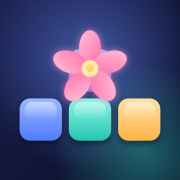
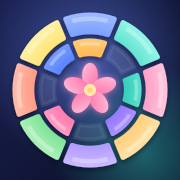
Bloom Blocks: describe the ring board of version 1.1.0
The product and support pages, screenshots, icon and cards now show the
redesigned game: curved petals on five rings, ring twisting and the
growing flower.

diff --git a/BloomBlocks/index.html b/BloomBlocks/index.html
@@ -3,21 +3,21 @@
 <head>
 <meta charset="UTF-8">
 <meta name="viewport" content="width=device-width, initial-scale=1.0, viewport-fit=cover">
-<title>Bloom Blocks: a calm, beautiful block puzzle</title>
-<meta name="description" content="Drag pieces onto the board, clear lines, chain combos and bloom the board. A fair, relaxing block puzzle for iPhone, iPad and Android with a new Daily Bloom every day.">
+<title>Bloom Blocks: a calm puzzle that grows in circles</title>
+<meta name="description" content="Place curved petals on a flower of five rings, twist the rings to line them up, and grow your bloom. A fair, relaxing puzzle for iPhone, iPad and Android with a new Daily Bloom every day.">
 <meta name="robots" content="index, follow">
 <link rel="canonical" href="https://playpalapps.github.io/BloomBlocks/">
 <meta property="og:type" content="website">
 <meta property="og:site_name" content="Playpal Apps">
 <meta property="og:url" content="https://playpalapps.github.io/BloomBlocks/">
-<meta property="og:title" content="Bloom Blocks: a calm, beautiful block puzzle">
-<meta property="og:description" content="Drag pieces onto the board, clear lines, chain combos and bloom the board. A fair, relaxing block puzzle for iPhone, iPad and Android with a new Daily Bloom every day.">
+<meta property="og:title" content="Bloom Blocks: a calm puzzle that grows in circles">
+<meta property="og:description" content="Place curved petals on a flower of five rings, twist the rings to line them up, and grow your bloom. A fair, relaxing puzzle for iPhone, iPad and Android with a new Daily Bloom every day.">
 <meta property="og:image" content="https://playpalapps.github.io/BloomBlocks/og-image.jpg">
 <meta property="og:image:width" content="1200">
 <meta property="og:image:height" content="630">
 <meta name="twitter:card" content="summary_large_image">
-<meta name="twitter:title" content="Bloom Blocks: a calm, beautiful block puzzle">
-<meta name="twitter:description" content="Drag pieces onto the board, clear lines, chain combos and bloom the board. A fair, relaxing block puzzle for iPhone, iPad and Android with a new Daily Bloom every day.">
+<meta name="twitter:title" content="Bloom Blocks: a calm puzzle that grows in circles">
+<meta name="twitter:description" content="Place curved petals on a flower of five rings, twist the rings to line them up, and grow your bloom. A fair, relaxing puzzle for iPhone, iPad and Android with a new Daily Bloom every day.">
 <meta name="twitter:image" content="https://playpalapps.github.io/BloomBlocks/og-image.jpg">
 <meta name="theme-color" content="#0b1026">
 <meta name="color-scheme" content="dark">
@@ -25,7 +25,7 @@
 <link rel="apple-touch-icon" sizes="180x180" href="apple-touch-icon.png">
 <link rel="stylesheet" href="_shared.css?v=3">
 <script type="application/ld+json">
-{"@context":"https://schema.org","@type":"MobileApplication","name":"Bloom Blocks","applicationCategory":"GameApplication","operatingSystem":"iOS, Android","author":{"@type":"Organization","name":"Playpal Apps"},"description":"A calm, beautiful block puzzle. Clear lines, chain combos and bloom the board.","offers":{"@type":"Offer","price":"0","priceCurrency":"USD"}}
+{"@context":"https://schema.org","@type":"MobileApplication","name":"Bloom Blocks","applicationCategory":"GameApplication","operatingSystem":"iOS, Android","author":{"@type":"Organization","name":"Playpal Apps"},"description":"A calm puzzle that grows in circles. Place curved petals on a flower of rings, twist the rings and grow your bloom.","offers":{"@type":"Offer","price":"0","priceCurrency":"USD"}}
 </script>
 <style>
 .hero { display: grid; grid-template-columns: 1.05fr .95fr; gap: 40px; align-items: center; padding: 40px 0 30px; }
@@ -59,17 +59,17 @@
 <div class="wrap hero">
   <div>
     <img class="hero-icon" src="icon.png" alt="Bloom Blocks app icon" width="96" height="96">
-    <div class="eyebrow">Block puzzle · iPhone, iPad, Android</div>
-    <h1>Clear lines.<br>Bloom the board.</h1>
-    <p class="lede" style="margin-top:20px">Bloom Blocks is the block puzzle you can actually relax with. Drag pieces onto the board, fill a row or a column, and watch it burst into petals.</p>
+    <div class="eyebrow">Ring puzzle · iPhone, iPad, Android</div>
+    <h1>Twist the rings.<br>Grow the bloom.</h1>
+    <p class="lede" style="margin-top:20px">Bloom Blocks is a puzzle that grows in circles. Place curved petals on a flower of five rings, fill a ring or a ray to make it bloom, and twist the rings to line everything up.</p>
     <div class="stores">
       <span class="store soon"><svg viewBox="0 0 24 24" aria-hidden="true"><path d="M18.71 19.5c-.83 1.24-1.71 2.45-3.05 2.47-1.34.03-1.77-.79-3.29-.79-1.53 0-2 .77-3.27.82-1.31.05-2.3-1.32-3.14-2.53C4.25 17 2.94 12.45 4.7 9.39c.87-1.52 2.43-2.48 4.12-2.51 1.28-.02 2.5.87 3.29.87.78 0 2.26-1.07 3.8-.91.65.03 2.47.26 3.64 1.98-.09.06-2.17 1.28-2.15 3.81.03 3.02 2.65 4.03 2.68 4.04-.03.07-.42 1.44-1.38 2.83M13 3.5c.73-.83 1.94-1.46 2.94-1.5.13 1.17-.34 2.35-1.04 3.19-.69.85-1.83 1.51-2.95 1.42-.15-1.15.41-2.35 1.05-3.11z"/></svg>App Store <small>coming soon</small></span>
       <a class="store" href="https://play.google.com/store/apps/details?id=com.bloomblocks.puzzle" target="_blank" rel="noopener" aria-label="Get Bloom Blocks on Google Play"><svg viewBox="0 0 24 24" aria-hidden="true"><path d="M3.609 1.814L13.792 12 3.61 22.186a.996.996 0 0 1-.61-.92V2.734a1 1 0 0 1 .609-.92zm10.89 10.893l2.302 2.302-10.937 6.333 8.635-8.635zm3.199-3.198l2.807 1.626a1 1 0 0 1 0 1.73l-2.808 1.626L15.206 12l2.492-2.491zM5.864 2.658L16.802 8.99l-2.303 2.303-8.635-8.635z"/></svg>Google Play</a>
     </div>
   </div>
   <div class="phones" aria-hidden="true">
-    <div class="phone"><img src="shots/04-ocean-theme.jpg" alt="" width="660" height="1434"></div>
-    <div class="phone"><img src="shots/02-gameplay.jpg" alt="" width="660" height="1434"></div>
+    <div class="phone"><img src="shots/04-grow.jpg" alt="" width="660" height="1434"></div>
+    <div class="phone"><img src="shots/01-rings.jpg" alt="" width="660" height="1434"></div>
   </div>
 </div>
 
@@ -77,31 +77,31 @@
   <div class="eyebrow">Why it feels good</div>
   <h2>Fair by design, calm by choice</h2>
   <div class="grid three" style="margin-top:28px">
-    <div class="card feat"><div class="dot"><svg viewBox="0 0 24 24"><polyline points="20 6 9 17 4 12"/></svg></div><h3>Every hand is playable</h3><p>The game checks each set of three pieces before dealing it. If you lose, it was your move, not bad luck.</p></div>
-    <div class="card feat"><div class="dot p"><svg viewBox="0 0 24 24"><polygon points="13 2 3 14 12 14 11 22 21 10 12 10 13 2"/></svg></div><h3>Forgiving combos</h3><p>Your streak survives a couple of quiet moves, so long chains feel earned instead of fragile.</p></div>
-    <div class="card feat"><div class="dot"><svg viewBox="0 0 24 24"><circle cx="12" cy="12" r="9"/><circle cx="12" cy="12" r="4"/></svg></div><h3>Petal Bombs</h3><p>Clear six lines to earn a bomb that blooms away a 3×3 area. Save it for the moment you need it.</p></div>
-    <div class="card feat"><div class="dot p"><svg viewBox="0 0 24 24"><rect x="3" y="4" width="18" height="18" rx="2"/><line x1="16" y1="2" x2="16" y2="6"/><line x1="8" y1="2" x2="8" y2="6"/><line x1="3" y1="10" x2="21" y2="10"/></svg></div><h3>Daily Bloom</h3><p>Everyone starts today's puzzle with the same pieces. Play it, share your score, keep your streak alive.</p></div>
-    <div class="card feat"><div class="dot"><svg viewBox="0 0 24 24"><polyline points="1 4 1 10 7 10"/><path d="M3.51 15a9 9 0 1 0 2.13-9.36L1 10"/></svg></div><h3>Line preview and undo</h3><p>See which rows and columns will clear before you let go. One free undo per game, because everyone slips.</p></div>
-    <div class="card feat"><div class="dot p"><svg viewBox="0 0 24 24"><path d="M12 2.69l5.66 5.66a8 8 0 1 1-11.31 0z"/></svg></div><h3>Plays offline</h3><p>No account, no timers, no energy bars. Pick up exactly where you left off, every time.</p></div>
+    <div class="card feat"><div class="dot"><svg viewBox="0 0 24 24"><circle cx="12" cy="12" r="9"/><circle cx="12" cy="12" r="4"/></svg></div><h3>A board with no corners</h3><p>Five rings of petals around a heart. Pieces curve to fit the ring you drop them on and wrap all the way around.</p></div>
+    <div class="card feat"><div class="dot p"><svg viewBox="0 0 24 24"><polyline points="23 4 23 10 17 10"/><polyline points="1 20 1 14 7 14"/><path d="M3.51 9a9 9 0 0 1 14.85-3.36L23 10M1 14l4.64 4.36A9 9 0 0 0 20.49 15"/></svg></div><h3>Twist the rings</h3><p>Put a finger on a ring and turn it. Line petals up to finish a ray, or open a gap for a piece that would not fit.</p></div>
+    <div class="card feat"><div class="dot"><svg viewBox="0 0 24 24"><path d="M12 22V11"/><path d="M12 13c0-4-3-6-7-6 0 4 3 6 7 6z"/><path d="M12 11c0-4 3-6 7-6 0 4-3 6-7 6z"/></svg></div><h3>Grow your flower</h3><p>Every ring and ray you bloom feeds the flower in the heart of the board, from seed to full bloom.</p></div>
+    <div class="card feat"><div class="dot p"><svg viewBox="0 0 24 24"><polyline points="20 6 9 17 4 12"/></svg></div><h3>Every hand is playable</h3><p>The game checks each set of three pieces before dealing it. If you lose, it was your move, not bad luck.</p></div>
+    <div class="card feat"><div class="dot"><svg viewBox="0 0 24 24"><rect x="3" y="4" width="18" height="18" rx="2"/><line x1="16" y1="2" x2="16" y2="6"/><line x1="8" y1="2" x2="8" y2="6"/><line x1="3" y1="10" x2="21" y2="10"/></svg></div><h3>Daily Bloom</h3><p>Everyone starts today's puzzle with the same pieces. Play it, share how far your flower grew, keep your streak alive.</p></div>
+    <div class="card feat"><div class="dot p"><svg viewBox="0 0 24 24"><path d="M12 2.69l5.66 5.66a8 8 0 1 1-11.31 0z"/></svg></div><h3>Plays offline</h3><p>No account, no timers, no energy bars. One free undo per game, and you pick up exactly where you left off.</p></div>
   </div>
 </section>
 
 <section class="wrap">
   <div class="eyebrow">A closer look</div>
-  <h2>Glossy blocks, soft music, crisp haptics</h2>
+  <h2>Glossy petals, soft music, crisp haptics</h2>
   <div class="strip" style="margin-top:26px">
-    <img src="shots/02-gameplay.jpg" alt="A game in progress on the Aurora theme with a score of 3,480" width="660" height="1434" loading="lazy">
-    <img src="shots/03-line-preview.jpg" alt="Dragging a piece, with the row that will clear glowing" width="660" height="1434" loading="lazy">
-    <img src="shots/04-ocean-theme.jpg" alt="The same game on the Deep Ocean theme" width="660" height="1434" loading="lazy">
+    <img src="shots/01-rings.jpg" alt="A game in progress: curved pieces on five rings around a flower, with a score of 3,480" width="660" height="1434" loading="lazy">
+    <img src="shots/02-ring-bloom.jpg" alt="Dropping a piece that completes a ring, which glows before it blooms" width="660" height="1434" loading="lazy">
+    <img src="shots/03-twist.jpg" alt="Twisting a ring so that two rays line up and glow" width="660" height="1434" loading="lazy">
+    <img src="shots/04-grow.jpg" alt="A game on the Deep Ocean theme with the flower in full bloom" width="660" height="1434" loading="lazy">
     <img src="shots/05-themes.jpg" alt="The theme picker showing six themes" width="660" height="1434" loading="lazy">
-    <img src="shots/01-home.jpg" alt="The home screen with Continue, New Game and Daily Bloom" width="660" height="1434" loading="lazy">
   </div>
 </section>
 
 <section class="wrap">
   <div class="eyebrow">Make it yours</div>
   <h2>Six hand-tuned themes</h2>
-  <p class="lede" style="margin-top:12px">Earn petals as you play and unlock them all. Fifteen achievements track the journey from First Bloom to Master Florist.</p>
+  <p class="lede" style="margin-top:12px">Earn petals as you play and unlock them all. Eighteen achievements track the journey from First Bloom to Master Florist.</p>
   <div class="themes" style="margin-top:24px">
     <div class="theme" style="background:linear-gradient(160deg,#141a3d,#0b1026)"><div class="sw"><i style="background:#5b8cff"></i><i style="background:#36d6c3"></i><i style="background:#ff6fa7"></i><i style="background:#ffb860"></i></div><b>Aurora</b></div>
     <div class="theme" style="background:linear-gradient(160deg,#44183f,#2a1230)"><div class="sw"><i style="background:#ff8fb8"></i><i style="background:#c77dff"></i><i style="background:#ffd27a"></i><i style="background:#ff6b9d"></i></div><b>Sakura</b></div>

diff --git a/BloomBlocks/support.html b/BloomBlocks/support.html
@@ -40,13 +40,15 @@
   </div>
 
   <h2>Playing the game</h2>
-  <details><summary>How do I play?</summary><p>Drag any of the three pieces from the tray onto the 8×8 board. Fill a whole row or a whole column and it clears. When the tray is empty you get three new pieces. The game ends when no piece in the tray fits.</p></details>
-  <details><summary>How do combos work?</summary><p>Clearing lines on back-to-back turns builds a combo, and each step of the combo multiplies your line points. The combo survives up to two placements without a clear, so you have room to set up the next one.</p></details>
-  <details><summary>What is the Bloom meter and the Petal Bomb?</summary><p>Every line you clear fills the Bloom meter. Six lines earn a Petal Bomb, and you can hold up to three. Tap the flower button, then tap the board, to clear a 3×3 area. If no piece fits but you still have a bomb, the game keeps going so you can use it.</p></details>
+  <details><summary>How do I play?</summary><p>The board is a flower: five rings of twelve petals around a heart. Drag any of the three pieces from the tray onto the rings. Pieces curve to fit and wrap around a ring. Fill a whole ring, or a ray (one petal from every ring between the heart and the rim), and it blooms. When the tray is empty you get three new pieces. The game ends when no piece fits and no twist or Petal Bomb can help.</p></details>
+  <details><summary>How do I twist a ring?</summary><p>Put a finger on any ring that has petals on it and drag around the circle. The ring turns with your finger, and rays that would bloom light up. Let go to keep the turn. Each twist uses one from the counter with two arrows. You start a game with two, can hold three, and earn one back every time you bloom a whole ring. A turn that would leave the ring looking the same costs nothing.</p></details>
+  <details><summary>What is the flower in the middle?</summary><p>It grows as you bloom rings and rays: seed, sprout, bud, blossom, full bloom and radiant bloom. The arc around it shows how close the next stage is.</p></details>
+  <details><summary>How do combos work?</summary><p>Blooming on back-to-back turns builds a combo, and each step of the combo adds to your bloom points. The combo survives up to two placements without a bloom, so you have room to set up the next one.</p></details>
+  <details><summary>What is the Bloom meter and the Petal Bomb?</summary><p>Every bloom fills the Bloom meter. A ray fills one segment and a ring fills three. A full meter earns a Petal Bomb, and you can hold up to three. Tap the flower button, then tap the board, to clear a patch of nine petals. If no piece fits but you still have a bomb, the game keeps going so you can use it.</p></details>
   <details><summary>What is Daily Bloom?</summary><p>Once a day there is a new puzzle where every player starts with the same pieces. Playing it on consecutive days builds your streak. A new puzzle arrives at midnight in your local time.</p></details>
   <details><summary>How does undo work?</summary><p>You get one free undo in each game. After that an undo costs 50 petals. If you are out of petals, you can watch a reward video for a free one.</p></details>
-  <details><summary>What is a revive?</summary><p>Once per game, when you run out of moves, you can watch a reward video to clear four lines and get a fresh set of pieces.</p></details>
-  <details><summary>What are petals for?</summary><p>Petals unlock themes. You earn them from your score, from cleared lines, from achievements and from a small gift each day you open the game.</p></details>
+  <details><summary>What is a revive?</summary><p>Once per game, when you run out of moves, you can watch a reward video to clear two rings and two rays and get a fresh set of pieces.</p></details>
+  <details><summary>What are petals for?</summary><p>Petals unlock themes. You earn them from your score, from every ring and ray you bloom, from achievements and from a small gift each day you open the game.</p></details>
 
   <h2>Ads and purchases</h2>
   <details><summary>When will I see ads?</summary><p>Reward videos only play when you choose them. A short ad may appear between games, never in the middle of one, and never in your first few games.</p></details>

diff --git a/naveen-raj/index.html b/naveen-raj/index.html
@@ -680,7 +680,7 @@
       </div>
       <div class="app-card reveal" onclick="location.href='https://playpalapps.github.io/BloomBlocks/'" style="transition-delay:0.90s;">
         <div class="app-head"><img class="app-icon-img" src="../icons/bloomblocks.png" alt="Bloom Blocks"><div><div class="app-name">Bloom Blocks</div><div class="app-cat">Game · Puzzle</div></div></div>
-        <p class="app-desc">A calm, beautiful block puzzle. Clear lines, chain combos and bloom the board. Every hand is playable, and a new Daily Bloom arrives every day.</p>
+        <p class="app-desc">A calm puzzle that grows in circles. Place curved petals on a flower of rings, twist the rings and grow your bloom. A new Daily Bloom arrives every day.</p>
         <div class="app-foot">
           <span class="store-pill ios-only" aria-disabled="true"><svg viewBox="0 0 24 24"><path d="M18.71 19.5c-.83 1.24-1.71 2.45-3.05 2.47-1.34.03-1.77-.79-3.29-.79-1.53 0-2 .77-3.27.82-1.31.05-2.3-1.32-3.14-2.53C4.25 17 2.94 12.45 4.7 9.39c.87-1.52 2.43-2.48 4.12-2.51 1.28-.02 2.5.87 3.29.87.78 0 2.26-1.07 3.8-.91.65.03 2.47.26 3.64 1.98-.09.06-2.17 1.28-2.15 3.81.03 3.02 2.65 4.03 2.68 4.04-.03.07-.42 1.44-1.38 2.83M13 3.5c.73-.83 1.94-1.46 2.94-1.5.13 1.17-.34 2.35-1.04 3.19-.69.85-1.83 1.51-2.95 1.42-.15-1.15.41-2.35 1.05-3.11z"/></svg>App Store · soon</span>
           <a class="store-pill" href="https://play.google.com/store/apps/details?id=com.bloomblocks.puzzle" target="_blank" rel="noopener" onclick="event.stopPropagation()"><svg viewBox="0 0 24 24"><path d="M3.609 1.814L13.792 12 3.61 22.186a.996.996 0 0 1-.61-.92V2.734a1 1 0 0 1 .609-.92zm10.89 10.893l2.302 2.302-10.937 6.333 8.635-8.635zm3.199-3.199l2.302 1.33a1 1 0 0 1 0 1.724l-2.302 1.33-2.544-2.544 2.544-2.544zM5.864 2.658L16.8 8.99l-2.302 2.302-8.634-8.634z"/></svg>Google Play</a>

diff --git a/index.html b/index.html
@@ -1131,7 +1131,7 @@
         <div class="app-meta">
           <span class="app-cat">Puzzle</span>
           <div class="app-name">Bloom Blocks</div>
-          <div class="app-tag-text">A calm, beautiful block puzzle. Clear lines, chain combos and bloom the board, with a new Daily Bloom every day.</div>
+          <div class="app-tag-text">A calm puzzle that grows in circles. Place curved petals on a flower of rings, twist the rings and grow your bloom.</div>
         </div>
         <div class="app-stores">
           <span class="store-mini soon"><svg viewBox="0 0 24 24"><path d="M18.71 19.5c-.83 1.24-1.71 2.45-3.05 2.47-1.34.03-1.77-.79-3.29-.79-1.53 0-2 .77-3.27.82-1.31.05-2.3-1.32-3.14-2.53C4.25 17 2.94 12.45 4.7 9.39c.87-1.52 2.43-2.48 4.12-2.51 1.28-.02 2.5.87 3.29.87.78 0 2.26-1.07 3.8-.91.65.03 2.47.26 3.64 1.98-.09.06-2.17 1.28-2.15 3.81.03 3.02 2.65 4.03 2.68 4.04-.03.07-.42 1.44-1.38 2.83M13 3.5c.73-.83 1.94-1.46 2.94-1.5.13 1.17-.34 2.35-1.04 3.19-.69.85-1.83 1.51-2.95 1.42-.15-1.15.41-2.35 1.05-3.11z"/></svg>App Store</span>
